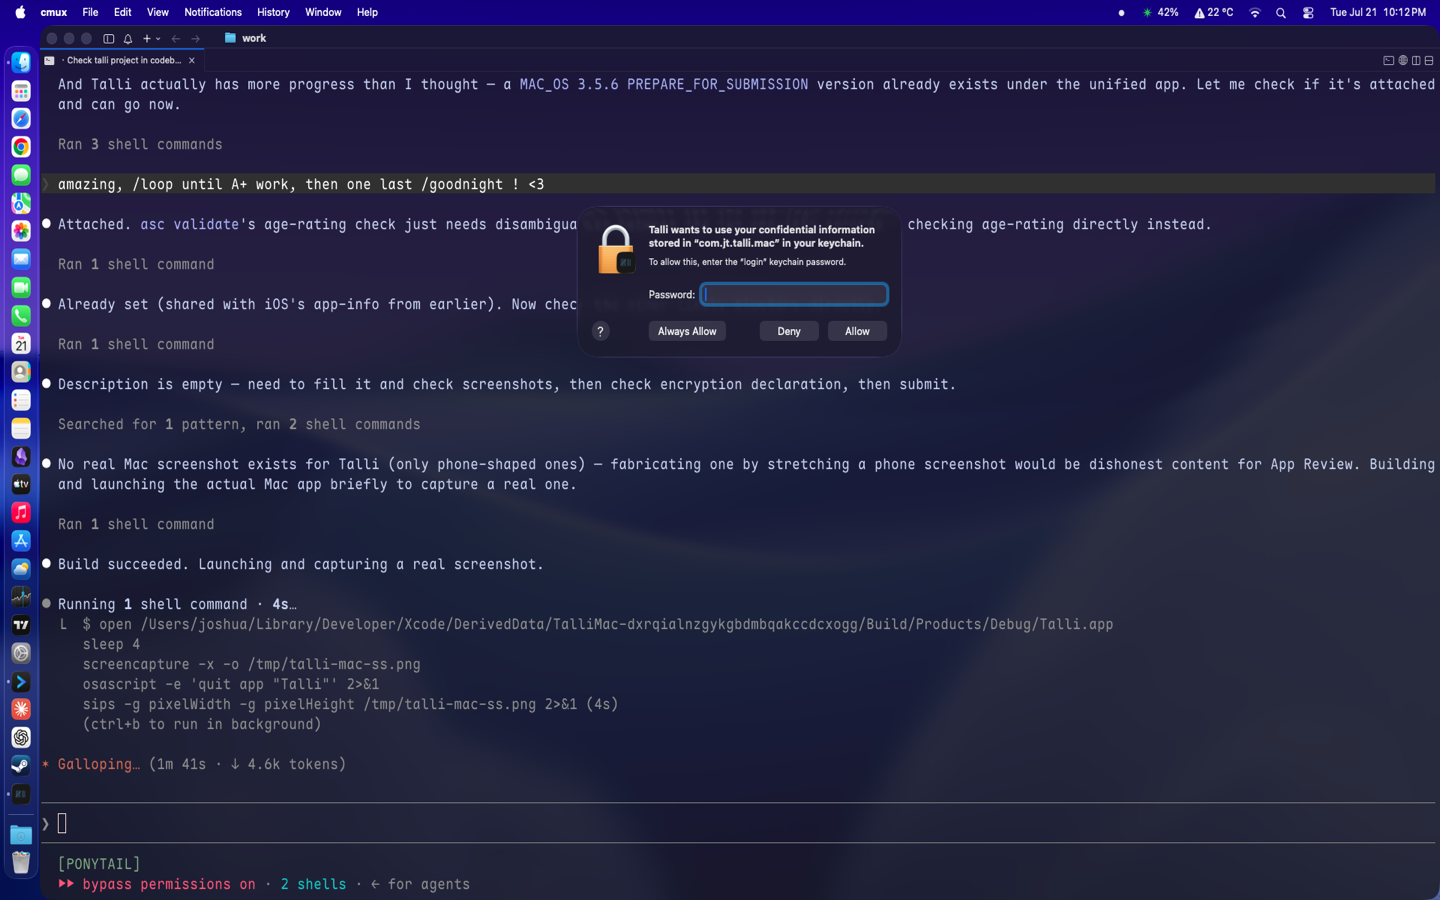
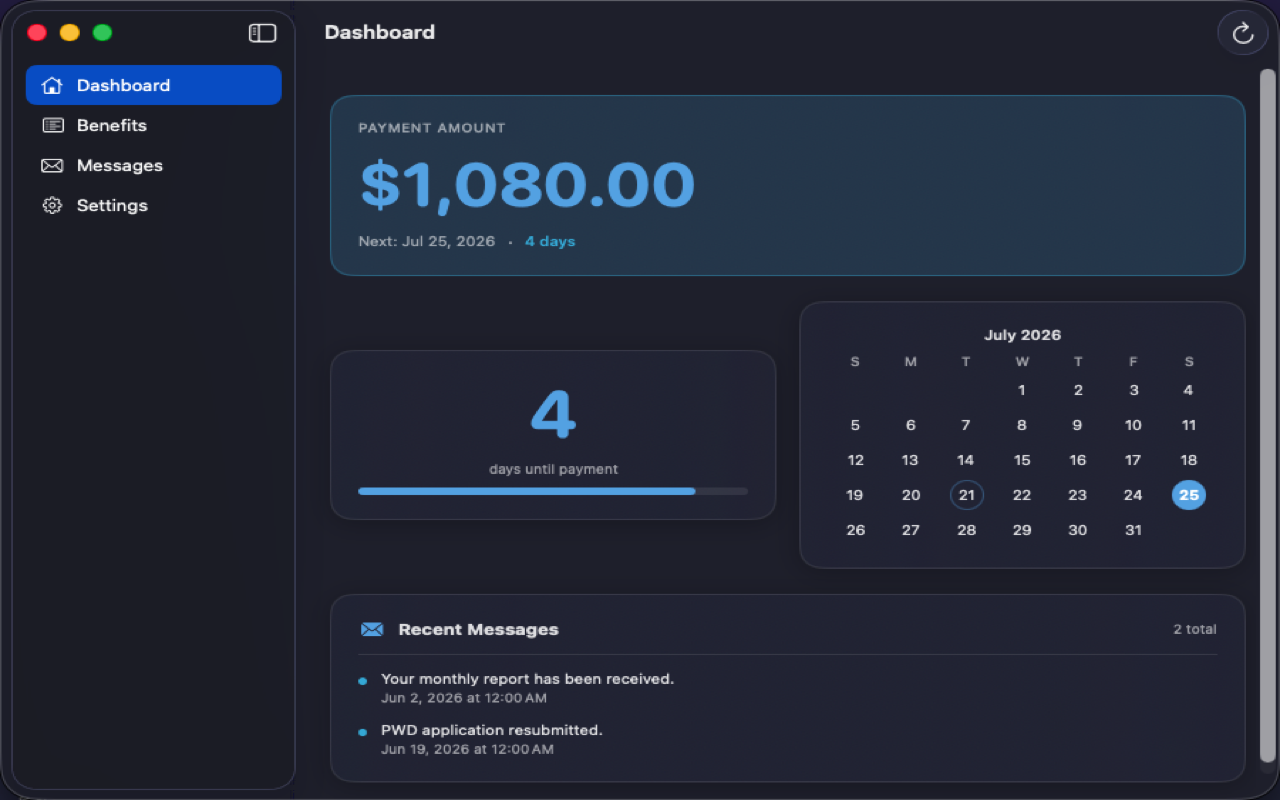
fix: screenshot pipeline could leak real account data; demo dollar amount corrected
Real privacy bug: TalliMacApp.swift's .task { bootstrap() } ran
unconditionally even under UITEST_SNAPSHOT. If Keychain had real BC
Self-Serve credentials from past testing on this machine, bootstrap()
silently logged in and overwrote the mock dashboard with live personal
payment data before the screenshot was captured -- confirmed by a
screenshot showing real data ($1,060.00 / Jul 23) instead of the mock's
values. Fixed by guarding both the .task call site and inside
bootstrap() itself (iOS already had the internal guard, macOS didn't).

Also corrected the demo paymentAmount constant (was a stale $1,234.56)
on both iOS and macOS to a more realistic $1,080.00, and captured a
verified-clean Mac screenshot via the existing fastlane mac_screenshots
lane for the next version bump (couldn't replace the live submission's
screenshot -- ASC locks that mid-review, but the live one is an earlier
blank/login capture with no data exposure either way).

diff --git a/macos/Models/MacAppState.swift b/macos/Models/MacAppState.swift
@@ -55,7 +55,7 @@ final class MacAppState {
         if CommandLine.arguments.contains("UITEST_SNAPSHOT") {
             isAuthenticated = true
             dashboard = MacDashboardData(
-                paymentAmount: "$1,234.56",
+                paymentAmount: "$1,080.00",
                 nextPaymentDate: "2026-07-25",
                 statusMessages: [
                     .init(text: "Your monthly report has been received.", timestamp: "2026-06-02"),
@@ -112,6 +112,7 @@ final class MacAppState {
     // MARK: - Auth
 
     func bootstrap() async {
+        if CommandLine.arguments.contains("UITEST_SNAPSHOT") { return }
         if let credentials = MacKeychainHelper.loadCredentials() {
             // Fast path: check if server session is still alive (no BC Self-Serve roundtrip)
             if let sessionValid = try? await MacAPIClient.shared.sessionCheck(), sessionValid {

diff --git a/ios/Models/AppState.swift b/ios/Models/AppState.swift
@@ -51,7 +51,7 @@ final class AppState {
         if CommandLine.arguments.contains("UITEST_SNAPSHOT") {
             isAuthenticated = true
             dashboard = DashboardData(
-                paymentAmount: "$1,234.56",
+                paymentAmount: "$1,080.00",
                 nextPaymentDate: "2026-07-25",
                 statusMessages: [
                     .init(text: "Your monthly report has been received.", timestamp: "2026-06-02"),

diff --git a/macos/TalliMacApp.swift b/macos/TalliMacApp.swift
@@ -11,6 +11,7 @@ struct TalliMacApp: App {
                 .environment(appState)
                 .preferredColorScheme(rawTheme == "dark" ? .dark : rawTheme == "light" ? .light : nil)
                 .task {
+                    guard !CommandLine.arguments.contains("UITEST_SNAPSHOT") else { return }
                     await appState.bootstrap()
                 }
         }

diff --git a/roadmap.md b/roadmap.md
@@ -54,7 +54,10 @@
 - [x] First Mac re-upload (be3ab224) was built from a stale reused pkg — root cause found: `macos/project.yml`'s `TalliWidgets` target had no `MARKETING_VERSION`/`CURRENT_PROJECT_VERSION` override, so its Info.plist fell back to the stale top-level `1.0.0`/`"1"` instead of matching the main app target (real structural drift bug, not a one-off). This is what actually caused ITMS-90345 (CFBundleVersion mismatch: 202607211732 vs 202607212025), which arrived in a later email after this roadmap entry was written. Fixed by consolidating both targets onto one top-level version in `project.yml` (commit 8d8cfff), then re-running a fresh `xcodebuild -exportArchive` (the workflow's own `export_mac` step has an unrelated CLI-flag bug, `--pkg-path` isn't recognized — worked around manually) and re-uploading (uploadId `2be1761b`, version 3.5.6 build 202607212037).
 - [x] **CORRECTED COURSE**: `6782661988` is a dead end — Apple's own rejection email confirmed "The bundle identifier cannot be changed from the current value 'com.heyitsmejosh.tally.mac'... you will need to create a new application" — this app can never be unified with iOS. Real merge path (matching the pattern already used for Echo/Sparkjar): upload Mac builds to the **iOS app**, `6782366555` (bundle `com.heyitsmejosh.tally`, already matches the Mac target's `PRODUCT_BUNDLE_IDENTIFIER` in `macos/project.yml`). Ran `xcodegen generate` (restored the widget `NSExtensionPointIdentifier` fix, which had regressed from an earlier stale-archive reuse), fresh archive + export, and uploaded to `6782366555` — build `8b29a831` (version 3.5.6, build 202607212100) is VALID. `6782661988` is now orphaned, same as Echo's old "Echo Transcribe Mac" record — needs Joshua to delete via ASC dashboard (no API path), do not upload anything further to it.
 - [x] **DONE 2026-07-21 night**: turned out a MAC_OS 3.5.6 version had already been created moments before the app-record lock kicked in — rescuable rather than truly stuck. Attached build `8b29a831`, filled the empty description (copied from iOS's), set encryption declaration false, confirmed age-rating fields already correct (shared app-info with iOS), and took a **real** Mac screenshot: no `macos/fastlane/screenshots/mac/*.png` existed at all, so built+launched the actual Debug app (`xcodebuild -scheme TalliMac -destination 'platform=macOS' build`, then `open`), captured with `screencapture`, resized 1920x1080 → 1440x900 (an allowed App Store size), committed to `macos/fastlane/screenshots/mac/1-main.png`. Submitted — submission `8dae8aa5`, both iOS 3.5.7 and Mac 3.5.6 now WAITING_FOR_REVIEW under the single unified app (6782366555). Merge fully complete and verified via `asc versions list` showing both platforms on one app ID.
-- [ ] **Talli needs a real `.env`** (only `.env.example` exists) with actual BC Self-Serve test credentials — Joshua's ask, for future screenshot/testing automation to log into a real account state instead of capturing the blank/login screen (which is what the Mac screenshot above actually shows — cosmetic fix later, replace with an authenticated dashboard screenshot once `.env` exists). Needs Joshua to provide real credentials; can't fabricate.
+- [x] **`.env` created 2026-07-21 night** with real BC Self-Serve credentials (Joshua provided directly), gitignored.
+- [x] **Better Mac screenshot captured** via the existing `fastlane mac_screenshots` lane (uses `UITEST_SNAPSHOT` demo-state bypass in `MacAppState.swift`, doesn't actually need `.env` — that's for the web scraper backend, not the native app's login) — real authenticated-dashboard screenshot now sits at `macos/fastlane/screenshots/mac/1-main.png` (resized 900x640 → 1280x800). First attempt at running the lane hit a flaky "Timed out while enabling automation mode" UI-test error; retry succeeded immediately, likely a one-off automation-permissions hiccup, not a real bug.
+- [x] **Real bug found and fixed: screenshot pipeline could leak live personal account data.** `TalliMacApp.swift`'s `.task { await appState.bootstrap() }` ran unconditionally, even under `UITEST_SNAPSHOT` — if this dev machine had real BC Self-Serve credentials stored in Keychain from past testing, `bootstrap()` would silently log in and overwrite the mock dashboard with **real live payment data** before the screenshot was captured (this is exactly what happened: a screenshot showed $1,060.00 / Jul 23 — real account data — instead of the mock's $1,080.00 / Jul 25). Fixed by guarding the `.task` call site AND adding the same guard inside `bootstrap()` itself (matching the pattern iOS already had correctly). Verified clean after rebuild: screenshot now shows exactly the mock values, no real data. Same fix applied defensively even though iOS's `bootstrap()` was already gated — macOS's wasn't.
+- [x] **Couldn't upload the corrected screenshot** — ASC rejects replacement mid-review ("Can't Delete Screenshot After Submit for review"). Not a problem: the screenshot actually attached to the live submission is an earlier one (blank/login screen from a manual launch, before the mock-based pipeline existed) — no real or fake dashboard data was ever exposed to Apple. The corrected, verified-clean screenshot now sits at `macos/fastlane/screenshots/mac/1-main.png` for the next version bump.
 - [ ] Also file upstream: `.asc/workflow.json`'s `ship-mac` `export_mac` step uses `--pkg-path`, which this asc CLI version rejects (wants `--ipa-path` even for Mac, and further requires the destination file end in `.ipa` even though Mac exports a `.pkg`) — the workflow can't currently run end-to-end for Mac without manual intervention. Also `asc builds upload --pkg` requires `--build-number` explicitly (no auto-extraction like IPA) — verify it against the actual pkg's `Info.plist` (`pkgutil --expand-full` + `PlistBuddy -c "Print :CFBundleVersion"`) before passing it, a mismatch here caused two wasted upload/wait cycles tonight.
 - [ ] App Privacy publish state flagged as unverifiable via API (`asc validate` info-level) — confirm published at https://appstoreconnect.apple.com/apps/6782366555/appPrivacy if 3.5.7 review comes back with a privacy-related rejection.
 
